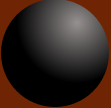
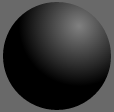
change board color

Changed region(s): [[0.0, 0.0, 1.0, 1.0], [0.6486, 0.1111, 0.7297, 0.2222]]

diff --git a/game.html b/game.html
@@ -133,8 +133,8 @@
             ng-if="game.shouldShowImage(row, col)">
             <!-- <img ng-if="game.isPieceB(row, col)" src="imgs/black.png"  style="position:absolute; top:0%; left:8%; width:84%; height:100%;">
             <img ng-if="game.isPieceW(row, col)" src="imgs/white.png"  style="position:absolute; top:0%; left:8%; width:84%; height:100%;"> -->
-            <input type="image" ng-if="game.isPieceB(row, col)" ng-src="imgs/black.png"  style="position:absolute; top:0%; left:8%; width:84%; height:100%;"/>
-            <input type="image" ng-if="game.isPieceW(row, col)" ng-src="imgs/white.png"  style="position:absolute; top:0%; left:8%; width:84%; height:100%;"/>
+            <input type="image" ng-if="game.isPieceB(row, col)" ng-src="imgs/black.png"  style="position:absolute; top:0%; left:6.5%; width:87%; height:100%;"/>
+            <input type="image" ng-if="game.isPieceW(row, col)" ng-src="imgs/white.png"  style="position:absolute; top:0%; left:6.5%; width:87%; height:100%;"/>
             <!-- <input type="image" ng-if="game.isEmpty(row, col)" ng-src="imgs/empty.png"  style="position:absolute; top:0%; left:8%; width:84%; height:100%;"/> -->
           </div>
         </div>
@@ -146,8 +146,8 @@
         <div style="width:100%; height: 100%"
           ng-class="{slowlyAppear: game.shouldSlowlyAppear(row, col)}"
           ng-if="game.shouldShowImage(row, col)">
-          <input type="image" ng-if="game.isPieceB(row, col)" ng-src="imgs/black.png"  style="position:absolute; top:0%; left:8%; width:84%; height:100%;"/>
-          <input type="image" ng-if="game.isPieceW(row, col)" ng-src="imgs/white.png"  style="position:absolute; top:0%; left:8%; width:84%; height:100%;"/>
+          <input type="image" ng-if="game.isPieceB(row, col)" ng-src="imgs/black.png"  style="position:absolute; top:0%; left:6.5%; width:87%; height:100%;"/>
+          <input type="image" ng-if="game.isPieceW(row, col)" ng-src="imgs/white.png"  style="position:absolute; top:0%; left:6.5%; width:87%; height:100%;"/>
           <!-- <input type="image" ng-if="game.isEmpty(row, col)" ng-src="imgs/empty.png"  style="position:absolute; top:0%; left:8%; width:84%; height:100%;"/> -->
         </div>
       </div>
@@ -155,8 +155,8 @@
 
     <div ng-repeat="row in [0]" style="position:absolute; top:0%; left:0%; width:9%; height:9%;">
       <div ng-repeat="col in [9]" style="position:absolute; top:0; left:0; width:100%; height:100%;" id="{{'div_' + row + 'x' + col}}">
-        <img ng-if="game.isBsTurn()" src="imgs/black.png"  style="position:absolute; top:0%; left:8%; width:84%; height:100%;">
-        <img ng-if="game.isWsTurn()" src="imgs/white.png"  style="position:absolute; top:0%; left:8%; width:84%; height:100%;">
+        <img ng-if="game.isBsTurn()" src="imgs/black.png"  style="position:absolute; top:0%; left:7%; width:86%; height:100%;">
+        <img ng-if="game.isWsTurn()" src="imgs/white.png"  style="position:absolute; top:0%; left:7%; width:86%; height:100%;">
       </div>
     </div>
     <div  ng-repeat="row in [0]"  style="position:absolute; top:10%; left:0%; width:9%; height:9%;">

diff --git a/emptyboard.html b/emptyboard.html
@@ -20,7 +20,8 @@
      <svg xmlns="http://www.w3.org/2000/svg" xmlns:xlink="http://www.w3.org/1999/xlink" width="638" height="638">
        <defs>
          <radialGradient cx="358" cy="154" r="30" id="g1" gradientUnits="userSpaceOnUse">
-           <stop stop-color="#969191" offset="0"/>
+           <stop stop-color="gray" offset="0"/>
+           <!-- #969191 -->
            <stop stop-color="#000" offset="1"/>
          </radialGradient>
          <radialGradient cx="163" cy="180" r="24" id="g2" gradientUnits="userSpaceOnUse">
@@ -28,18 +29,19 @@
            <stop stop-color="#fff" offset="1"/>
          </radialGradient>
          <pattern id="p1" patternUnits="userSpaceOnUse" height="100" width="57" x="-24" y="40">
-           <circle cx="29" cy="29" r="21.5" fill="tan" id="c1"/>
+           <circle cx="29" cy="29" r="21.5" fill="honeydew" id="c1"/>
            <!-- <circle cx="29" cy="29" r="21.5" fill="#ad694a" id="c1"/> -->
            <use x="-28.5" y="50" xlink:href="#c1"/>
            <use x="28.5" y="50" xlink:href="#c1"/>
          </pattern>
        </defs>
-       <path d="M162 590 6 319 162 48h313l157 271-157 271" fill="#6f2503"/>
+       <path d="M162 590 6 319 162 48h313l157 271-157 271" fill="dimgrey"/>
+       <!-- <path d="M162 590 6 319 162 48h313l157 271-157 271" fill="#6f2503"/> -->
        <path d="M190,94H444L574,319 444,546H190L58,319" fill="url(#p1)"/>
-       <!-- <circle cx="347" cy="169" r="27" fill="url(#g1)" id="c2"/>
-       <use x="28.5" y="-50" xlink:href="#c2"/>
+       <circle cx="347" cy="169" r="27" fill="url(#g1)" id="c2"/>
+       <!-- <use x="28.5" y="-50" xlink:href="#c2"/> -->
        <use x="85.5" y="-50" xlink:href="#c2"/>
-       <use x="57" y="0" xlink:href="#c2"/>
+       <!-- <use x="57" y="0" xlink:href="#c2"/>
        <use x="114" y="0" xlink:href="#c2"/>
        <use x="28.5" y="50" xlink:href="#c2"/>
        <use x="85.5" y="50" xlink:href="#c2"/>
@@ -49,10 +51,10 @@
        <use x="-57" y="300" xlink:href="#c2"/>
        <use x="-114" y="300" xlink:href="#c2"/>
        <use x="-171" y="300" xlink:href="#c2"/>
-       <use x="-85.5" y="350" xlink:href="#c2"/>
+       <use x="-85.5" y="350" xlink:href="#c2"/> -->
        <circle cx="176" cy="169" r="27" fill="url(#g2)" id="c3"/>
        <use x="85.5" y="-50" xlink:href="#c3"/>
-       <use x="0" y="0" xlink:href="#c3"/>
+       <!-- <use x="0" y="0" xlink:href="#c3"/>
        <use x="57" y="0" xlink:href="#c3"/>
        <use x="114" y="0" xlink:href="#c3"/>
        <use x="28.5" y="50" xlink:href="#c3"/>
@@ -63,8 +65,8 @@
        <use x="171" y="300" xlink:href="#c3"/>
        <use x="228" y="300" xlink:href="#c3"/>
        <use x="285" y="300" xlink:href="#c3"/>
-       <use x="199.5" y="350" xlink:href="#c3"/>
-       <use x="256.5" y="350" xlink:href="#c3"/> -->
+       <use x="199.5" y="350" xlink:href="#c3"/> -->
+       <use x="256.5" y="350" xlink:href="#c3"/>
      </svg>
   </div>
 </div>
